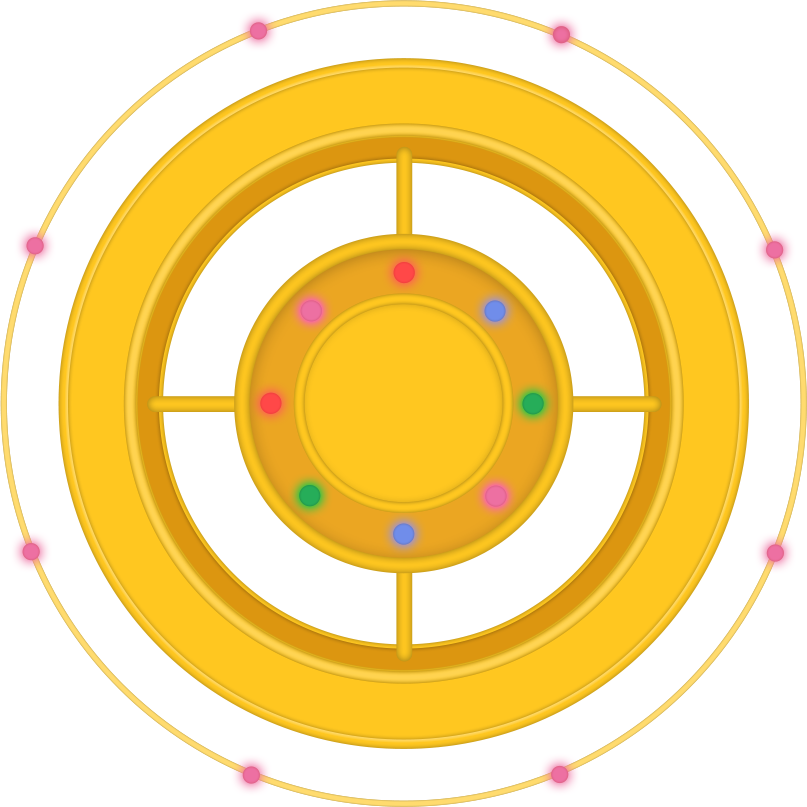
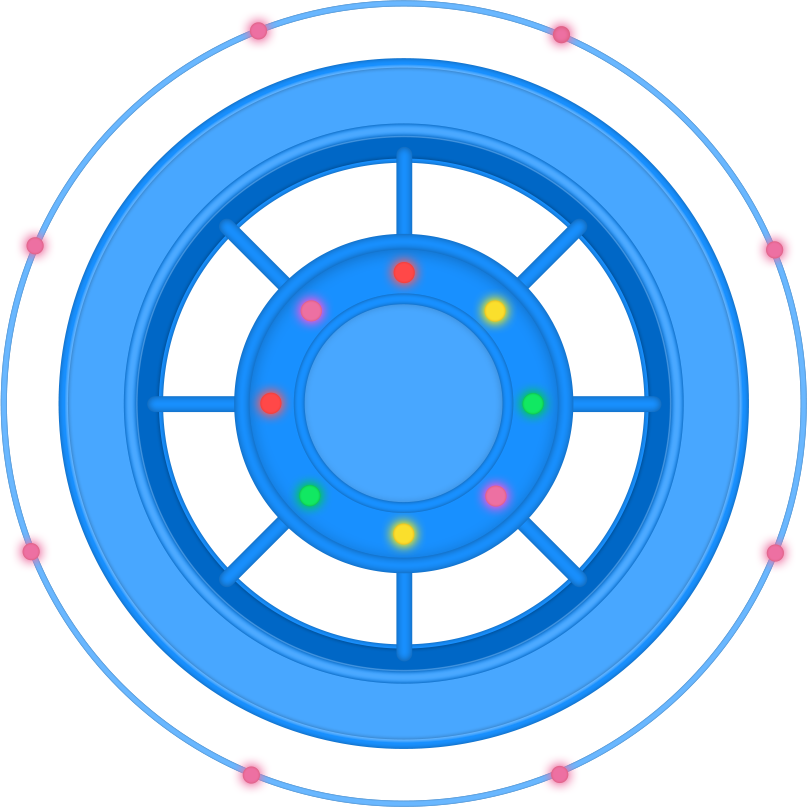
feat: update styles

diff --git a/src/pages/Index/index.tsx b/src/pages/Index/index.tsx
@@ -157,41 +157,43 @@ const Home = () => {
 
   return (
     <div className={styles.main}>
-      <div className={styles.content}>
+      <div className={styles.center}>
+        <div className={styles.content}>
 
-        <div className={styles.wrap}>
-          <div className={styles.leftW}>
-            <div className={`${styles.rows} ${styles.records}`}>
-              <a href="/index/ferris/records.html">{ text.records }</a>
+          <div className={styles.wrap}>
+            {/* <div className={styles.leftW}> */}
+              <div className={`${styles.rows} ${styles.records}`}>
+                <a href="/index/ferris/records.html">{ text.records }</a>
+              </div>
+            {/* </div> */}
+            <div className={`${styles.rows} ${styles.rules}`} onClick={ () => setRules(true) }>{ text.rules }</div>
+            <div className={`${styles.rows} ${styles.rank}`}>
+              <a href="/index/ferris/rank.html">{ text.rank }</a>
             </div>
           </div>
-          <div className={`${styles.rows} ${styles.rules}`} onClick={ () => setRules(true) }>{ text.rules }</div>
-          <div className={`${styles.rows} ${styles.rank}`}>
-            <a href="/index/ferris/rank.html">{ text.rank }</a>
-          </div>
+
+          { data && <Down
+            handleAdd={ (index, chip) => handleAdd(index, chip)}
+            reward={data.reward}
+            history={data.history}
+            balance={data.balance}
+            today={data.today_diamond}
+            info={data.info}
+            result={result}
+            bet={data.bet} /> }
+
         </div>
 
-        { data && <Down
-          handleAdd={ (index, chip) => handleAdd(index, chip)}
-          reward={data.reward}
-          history={data.history}
-          balance={data.balance}
-          today={data.today_diamond}
-          info={data.info}
-          result={result}
-          bet={data.bet} /> }
 
+        <img className={styles.base} src={base} />
+        { showTips && result &&
+          <Tips
+            winner={result.winner}
+            reward={data.reward}
+            id={result.reward_id} /> }
+
+        { showRules && <Rules rule={data.rule} handleShow={ () => setRules(false) } /> }
       </div>
-
-
-      <img className={styles.base} src={base} />
-      { showTips && result &&
-        <Tips
-          winner={result.winner}
-          reward={data.reward}
-          id={result.reward_id} /> }
-
-      { showRules && <Rules rule={data.rule} handleShow={ () => setRules(false) } /> }
     </div>
   );
 };

diff --git a/src/components/Down/index.module.css b/src/components/Down/index.module.css
@@ -1,11 +1,11 @@
 .result {
   display: flex;
-  background-color: rgba(242, 164, 28, 1);
+  background: #1387F1;
   border-radius: 13px;
   align-items: center;
   margin: 0 10px;
   padding: 6px 20px;
-  transform: scale(1.15);
+  /* transform: scale(1.15); */
 }
 
 
@@ -13,7 +13,7 @@
   display: flex;
   justify-content: center;
   align-items: center;
-  margin-bottom: 50px;
+  margin-bottom: 11.2%;
   margin-top: 75px;
 }
 
@@ -32,9 +32,9 @@
 
 .down {
   position: fixed;
-  bottom: -20px;
+  bottom: 15px;
   width: 100%;
-  transform: scale(0.85);
+  /* transform: scale(0.85); */
 }
 
 .title {
@@ -79,17 +79,17 @@
   justify-content: center;
   align-items: center;
   margin-bottom: 10px;
-  margin-bottom: 5%;
+  margin-bottom: 3%;
 }
 
 .chooseRows {
-  background-color: rgba(255, 216, 124, 1);
-  border: 3px solid rgba(220, 154, 0, 1);
+  background: #1387F1;
+  border: 3px solid #79BFFF;
   border-radius: 36px;
   flex: 1;
   text-align: center;
-  margin: 0 20px;
-  color: rgba(250, 141, 0, 1);
+  margin: 0 8px;
+  color: #ffffff;
   font-weight: bold;
   padding: 5px 0;
 }
@@ -155,7 +155,7 @@
 .ballContent {
   position: absolute;
   left: 0px;
-  top: 25px;
+  top: 20px;
   width: 100%;
 }
 
@@ -179,7 +179,7 @@
 }
 
 .ballAnimal {
-  width: 40px;
+  width: 50px;
   margin-top: -30px;
   position: relative;
   z-index: 3;
@@ -209,6 +209,9 @@
   -webkit-transform-origin: 0 100%;
   transform-origin: 0 100%;
   z-index: 2;
+}
+.row:active {
+  box-shadow:0 0;
 }
 
 .container {
@@ -305,7 +308,7 @@
 }
 
 .ballLast .container {
-  background-image: url("../../assets/bg04.png") !important;
+  background-image: url("../../assets/bg05.png") !important;
 }
 
 .ballNumLast .container {
@@ -403,3 +406,32 @@
     -webkit-transform:rotate(-30deg);
   }
 }
+
+@media screen and (max-height: 700px) {
+  .result {
+    transform: scale(1);
+  }
+  .down {
+    transform: scale(0.92);
+    bottom: -15px;
+  }
+  .operation {
+    margin-bottom: 50px;
+  }
+  .choose {
+    margin-bottom: 5%;
+  }
+}
+@media screen and (max-height: 600px) {
+  .circle {
+    transform: scale(0.82);
+  }
+  .operation {
+    margin-top: 50px;
+    margin-bottom: 35px;
+  }
+  .animal img {
+    margin: 0 3px;
+  }
+}
+

diff --git a/src/pages/Index/index.module.css b/src/pages/Index/index.module.css
@@ -1,11 +1,5 @@
 .main {
-  background-image: linear-gradient(
-    180deg,
-    rgba(234, 253, 170, 1) 0,
-    rgba(234, 253, 170, 1) 0,
-    rgba(251, 211, 194, 1) 100%,
-    rgba(251, 211, 194, 1) 100%
-  );
+  background: linear-gradient(0deg, #63A3FF 0%, #B6DCFF 50%, #72BEFF 100%);
   position: relative;
   height: 100vh;
 }

diff --git a/src/utils/index.ts b/src/utils/index.ts
@@ -54,7 +54,7 @@ if (isandroid) {
 if (isios) {
   header['platform'] = 'ios';
 }
-
+header['token'] = 'b0acd8e7-5e6a-42d7-9c39-becacb333502'
 if (getCookie("biubiuclub_cookiehttp_token")) {
   header['token'] = getCookie("biubiuclub_cookiehttp_token");
 }

diff --git a/src/global.css b/src/global.css
@@ -20,3 +20,10 @@ body {
 .content {
   padding: 0!important;
 }
+
+div, img {
+  -webkit-tap-highlight-color: transparent;
+  -webkit-touch-callout: none;
+  -webkit-user-select: none;
+  user-select: none;
+}
